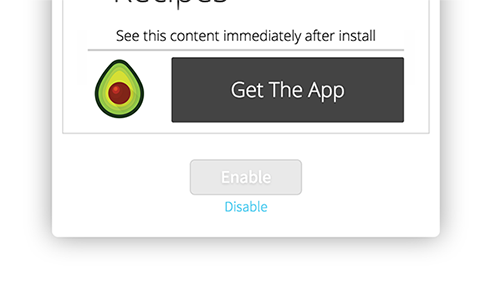
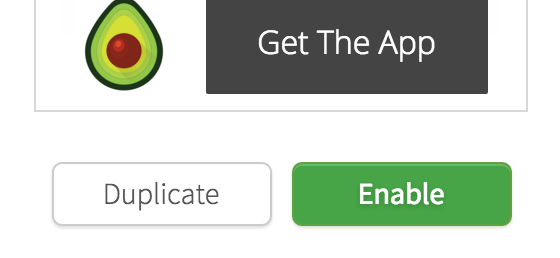
new deepview editor section

diff --git a/recipes/deepviews.md b/recipes/deepviews.md
@@ -154,7 +154,34 @@ Only users who do not have the app will go through this flow. You can view the t
 
 ## Advanced: Customizing the Deepview templates
 
-Coming soon!
+Along with enabling deepview templates across different platforms, you can also create new templates on the [dashboard](https://dashboard.branch.io/#/settings/deepviews).
+
+You can create a new deepview by duplicating the Branch public template, or creating a new one.
+
+{% image src='/img/deepviews/deepviews_enable.png' quarter center alt='Deepviews tab' %}
+
+#### Basic
+
+The first tab displays your new template and provides two sections:
+	1. Deepview settings
+		- Title
+		- Key (The key that you will reference if you want to enable a specific tempalate in a [link](https://dev.branch.io/recipes/deepviews/#enabling-deepviews-per-link))
+	2. App Settings (**Note:** These fields, when edited and saved, will become effective for your entire app)
+		- OG Title
+		- OG Description
+		- OG Image Url
+
+{% image src='/img/deepviews/deepviews_editor_basic.png' third center alt='Deepviews tab' %}
+
+#### Editor
+
+The second tab gives you an interface to edit the html and css for your template. The rendered template will update as you modify the markup.
+
+{% protip title="Javascript is not allowed on deepview templates" %}
+Before rendering the template, we sanitize the markup of Javascript for security reasons. This includes script tags and event attributes on tags.
+{% endprotip %}
+
+{% image src='/img/deepviews/deepviews_editor_code.png' third center alt='Deepviews tab' %}
 
 -----
 
